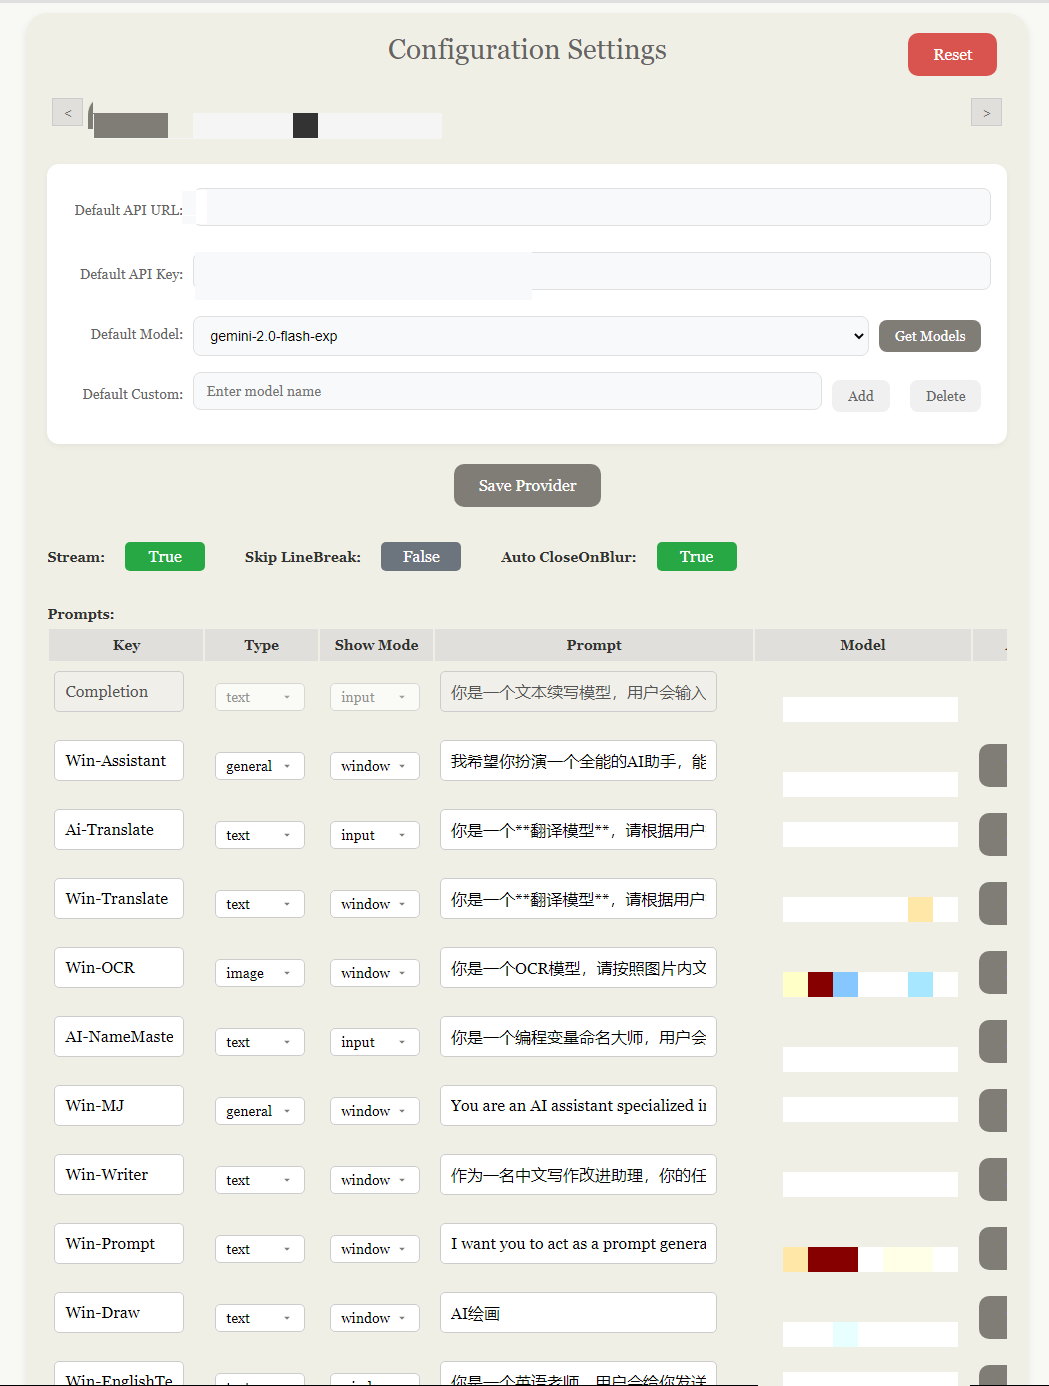
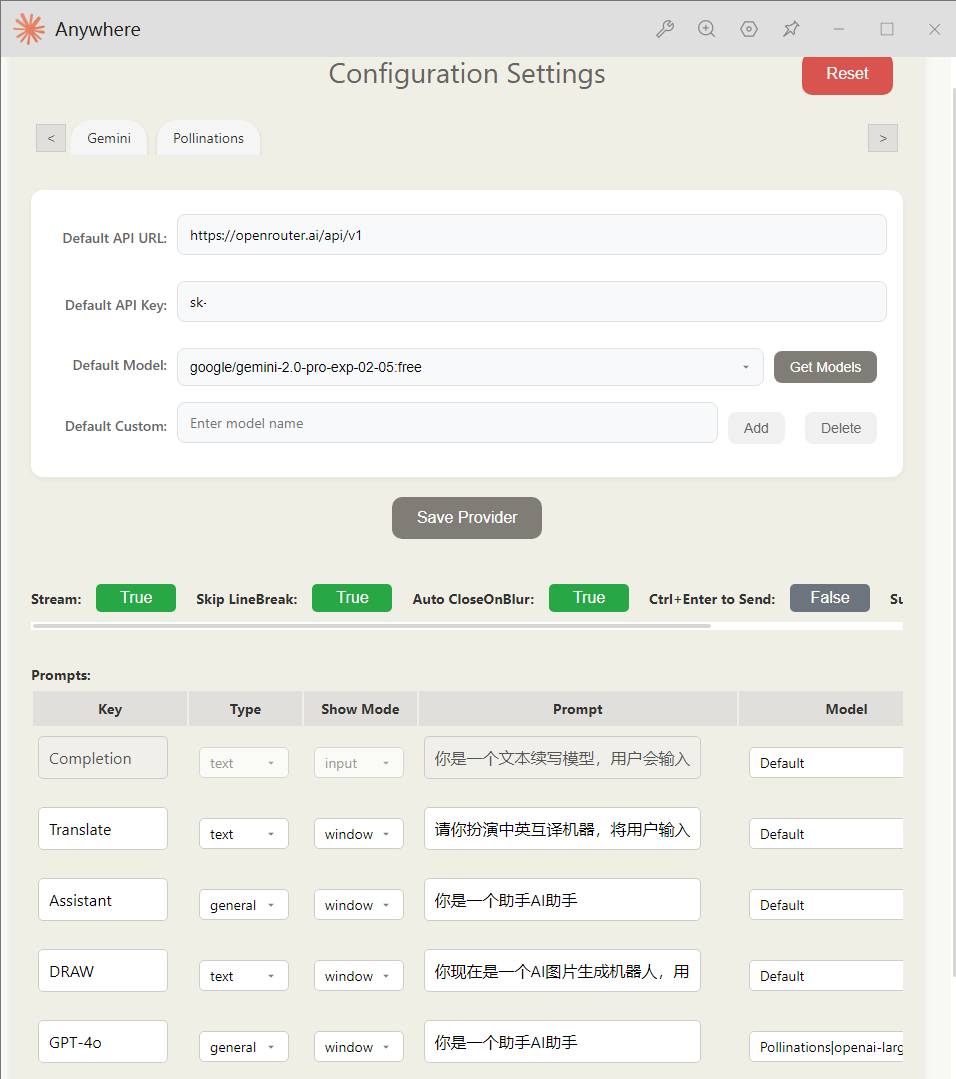
取消固定默认提示词

diff --git a/setting.html b/setting.html
@@ -241,10 +241,10 @@
             text-align: center;
         }
 
-        .prompts-table tbody tr:first-child .drag-handle {
+        /* .prompts-table tbody tr:first-child .drag-handle {
             cursor: default;
             text-align: center;
-        }
+        } */
 
         .prompts-table tbody tr input,
         .prompts-table tbody tr select {
@@ -1134,13 +1134,13 @@
                     providers: {},
                     providerOrder: [],
                     prompts: {
-                        Completion: {
-                            idex: 0,
-                            type: "over",
-                            prompt: `你是一个文本续写模型...`,
-                            showMode: "input",
-                            model: "",
-                        },
+                        // Completion: {  // 移除 Completion 的特殊定义
+                        //     idex: 0,
+                        //     type: "over",
+                        //     prompt: `你是一个文本续写模型...`,
+                        //     showMode: "input",
+                        //     model: "",
+                        // },
                     },
                     stream: true,
                     skipLineBreak: true,
@@ -1311,7 +1311,8 @@
                 promptsArray.sort((a, b) => a.idex - b.idex);
 
                 promptsArray.forEach(prompt => {
-                    addPromptRow(prompt.key, prompt.type, prompt.showMode, prompt.prompt, prompt.model, prompt.key === 'Completion', prompt.idex);
+                    // 移除 readOnly 参数，所有 prompt 都可以编辑和删除
+                    addPromptRow(prompt.key, prompt.type, prompt.showMode, prompt.prompt, prompt.model, prompt.idex);
                 });
 
                 const sortedPrompts = {};
@@ -1334,10 +1335,11 @@
             const addDragAndDropListeners = () => {
                 const rows = Array.from(domElements.promptsTable.rows);
                 rows.forEach((row, index) => {
-                    if (index === 0) {
-                        row.setAttribute('draggable', 'false');
-                        return;
-                    }
+                    // 移除对第一行的特殊处理，所有行都可以拖动
+                    // if (index === 0) {
+                    //     row.setAttribute('draggable', 'false');
+                    //     return;
+                    // }
                     row.setAttribute('draggable', 'true');
 
                     row.addEventListener('dragstart', (event) => {
@@ -1375,7 +1377,7 @@
             };
 
             // 添加 Prompt 行
-            const addPromptRow = (key = '', type = 'general', showMode = 'window', prompt = '', model = '', readOnly = false, idex = 0) => {
+            const addPromptRow = (key = '', type = 'general', showMode = 'window', prompt = '', model = '', idex = 0) => { // 移除 readOnly 参数
                 const row = domElements.promptsTable.insertRow();
                 row.setAttribute('data-idex', idex);
 
@@ -1396,7 +1398,7 @@
                     const input = document.createElement('input');
                     input.type = 'text';
                     input.value = value;
-                    input.disabled = disabled;
+                    input.disabled = disabled;  // 可以选择是否禁用
                     return input;
                 };
 
@@ -1412,7 +1414,7 @@
                         select.add(opt);
                     });
                     select.value = selectedValue;
-                    select.disabled = disabled;
+                    select.disabled = disabled; // 可以选择是否禁用
 
                     container.appendChild(select);
                     return container;
@@ -1426,23 +1428,24 @@
                     return button;
                 };
 
-                createCell(createInput(key, readOnly), 'key-cell');
+                createCell(createInput(key, false), 'key-cell'); // 不再固定 key
 
                 const typeSelectContainer = createSelect([
                     { value: 'general', text: 'general' },
                     { value: 'over', text: 'text' },
                     { value: 'img', text: 'image' }
-                ], type, readOnly, 'type-select-container');
+                ], type, false, 'type-select-container'); // 不再固定 type
                 createCell(typeSelectContainer, 'type-cell');
 
 
                 const showModeSelectContainer = createSelect([
                     { value: 'input', text: 'input' },
                     { value: 'window', text: 'window' }
-                ], showMode, readOnly, 'showMode-select-container');
+                ], showMode, false, 'showMode-select-container'); // 不再固定 showMode
                 createCell(showModeSelectContainer, 'show-mode-cell');
 
-                createCell(createInput(prompt, readOnly), 'prompt-cell');
+                createCell(createInput(prompt, false), 'prompt-cell'); // 不再固定 prompt
+
 
                 const modelProviderSelectContainer = document.createElement('div');
                 modelProviderSelectContainer.className = 'model-provider-select-container';
@@ -1482,11 +1485,11 @@
                 createCell(modelProviderSelectContainer, 'model-cell');
 
 
-                if (!readOnly) {
-                    createCell(createActionButton('Delete', 'delete-btn', () => {
-                        domElements.promptsTable.deleteRow(row.rowIndex - 1);
-                    }), 'action-cell');
-                }
+                // 所有行都添加删除按钮
+                createCell(createActionButton('Delete', 'delete-btn', () => {
+                    domElements.promptsTable.deleteRow(row.rowIndex - 1);
+                }), 'action-cell');
+
 
                 addDragAndDropListeners();
             };

diff --git a/show_page.js b/show_page.js
@@ -58,15 +58,26 @@ function getConfig() {
 // 更新配置文件
 function updateConfig(newConfig) {
   const features = utools.getFeatures();
-  let featuresMap = new Map(features.map(feature => [feature.code, feature]));
+  let featuresMap = new Map(features.map((feature) => [feature.code, feature]));
   // 查找prompts中的key是否在features的元素的code中，如不在则添加
   for (let key in newConfig.config.prompts) {
-    utools.setFeature({
-      code: key,
-      explain: key,
-      mainHide: true,
-      cmds: [{ type: newConfig.config.prompts[key].type, label: key }]
-    });
+    if (newConfig.config.prompts[key].type === "general") {
+      utools.setFeature({
+        code: key,
+        explain: key,
+        mainHide: true,
+        cmds: [
+          { type: "over", label: key },
+          { type: "img", label: key },],
+      });
+    } else {
+      utools.setFeature({
+        code: key,
+        explain: key,
+        mainHide: true,
+        cmds: [{ type: newConfig.config.prompts[key].type, label: key }],
+      });
+    }
   }
   // 查找features的元素的code是否在prompts中的key中，如不在则删除
   for (let [key, feature] of featuresMap) {
@@ -74,19 +85,17 @@ function updateConfig(newConfig) {
       utools.removeFeature(key);
     }
   }
-  newConfig.config.prompts.Completion = defaultConfig.config.prompts.Completion
-  let configDoc = utools.db.get("config")
+  let configDoc = utools.db.get("config");
   if (configDoc) {
     // 更新已存在的配置
-    configDoc.data = { ...configDoc.data, ...newConfig }
-    return utools.db.put(configDoc)
-  }
-  else {
+    configDoc.data = { ...configDoc.data, ...newConfig };
+    return utools.db.put(configDoc);
+  } else {
     // 创建新的配置
     return utools.db.put({
       _id: "config",
       data: newConfig,
-    })
+    });
   }
 }
 

diff --git a/preload.js b/preload.js
@@ -111,8 +111,6 @@ function updateConfig(newConfig) {
       utools.removeFeature(key);
     }
   }
-  newConfig.config.prompts["Completion"] =
-    defaultConfig.config.prompts["Completion"];
   let configDoc = utools.db.get("config");
   if (configDoc) {
     // 更新已存在的配置
@@ -302,8 +300,8 @@ utools.onPluginEnter(async ({ code, type, payload, option }) => {
   // 主逻辑
   if (code !== "Anywhere Settings") {
     // 获取配置文件，隐藏主窗口
-    config = getConfig().config;
     utools.hideMainWindow(true);
+    config = getConfig().config;
     checkConfig(config);
     // 非窗口运行
     if (config.prompts[code].showMode === "input") {

diff --git a/README.md b/README.md
@@ -1,12 +1,13 @@
 # Anywhere
-随时随地，召唤AI
+随时随地，召唤AI，便捷调用AI实现划词翻译、变量名命名、OCR、AI高情商回复、AI绘图
+
+## 体验
+如果没有API，可以注册OpenRouter中申请密钥，选择免费模型进行体验(https://openrouter.ai)
 
 ## 页面展示
 ![image](/image/1.png)
 ![image](/image/2.png)
 ![image](/image/3.png)
-![image](/image/4.png)
-![image](/image/5.png)
 
 ## 功能：
 1. 选中文本后，在要输入的地方调用快捷方式“Completion”（没有选中文本不会显示快捷方式），搭配快捷键更好“食用”

diff --git a/update.md b/update.md
@@ -6,3 +6,6 @@
 ## fix
 1. 修复图片发送失败的bug
 2. 修复连续两次重新生成会阻塞其中一次
+
+## others
+1. 取消固定默认提示词
